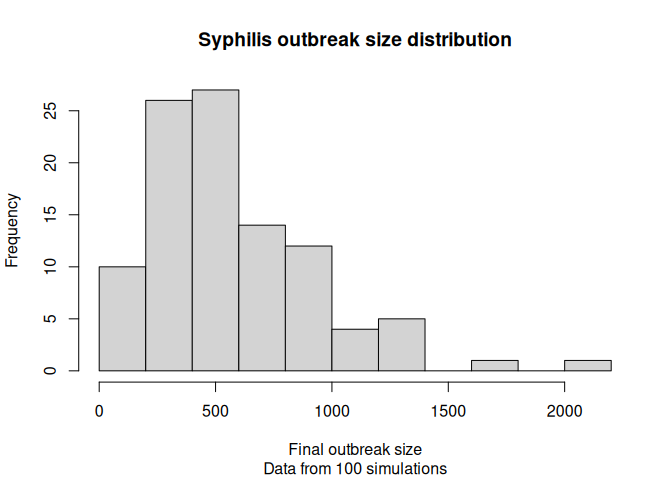
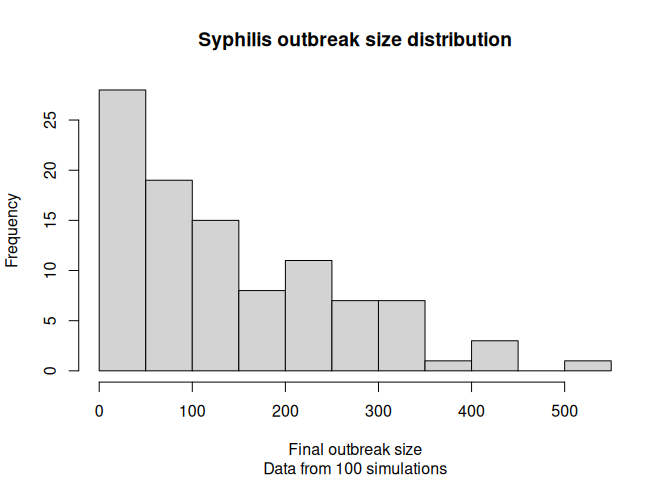
Added treatment during primary

diff --git a/syphilis.hpp b/syphilis.hpp
@@ -14,6 +14,11 @@ private:
     static void _update_i_secondary(Agent<> * agent, Model<> * model);
     static void _update_i_latent(Agent<> * agent, Model<> * model);
     static void _update_i_tertiary(Agent<> * agent, Model<> * model);
+    static void _update_i_under_treatment(Agent<> * agent, Model<> * model);
+
+    // Bool indicating agents that will get treatment
+    std::vector< bool > _will_get_treatment;
+    std::vector< int > _treatment_start_day;
 
 public:
 
@@ -26,7 +31,8 @@ public:
     // The tertiary stage happens years later, so we will not
     // include it in the model for simplicity
     // static const int I_TERTIARY = 5;
-    static const int RECOVERED = 5;
+    static const int I_LATENT_TERMINAL = 5;
+    static const int I_UNDER_TREATMENT = 6;
 
     /**
      * @brief Construct a new Model Syphilis object
@@ -36,6 +42,11 @@ public:
       * @param duration_primary Average duration of primary stage in days
       * @param duration_secondary Average duration of secondary stage in days
       * @param duration_latent Average duration of latent stage in days
+      * @param duration_of_treatment Fixed number of days for treatment.
+      * @param days_to_detect Average number of days to detect an infection (if 
+      * included) (geometrically distributed).
+      * @param proportion_will_get_treatment Proportion of infected individuals 
+      * that will receive treatment.
       * Note: The tertiary stage is not included in this model for simplicity,
       * as it occurs years after the initial infection and is less relevant 
       * for short-term epidemic modeling
@@ -45,8 +56,15 @@ public:
         epiworld_double incubation_period = 21.0,
         epiworld_double duration_primary = 52.2,
         epiworld_double duration_secondary = 105.0,
-        epiworld_double duration_latent = 365.0
+        epiworld_double duration_latent = 365.0,
+        epiworld_double duration_of_treatment = 21.0,
+        epiworld_double days_to_detect = 14.0,
+        epiworld_double proportion_will_get_treatment = 2.0/3.0
     );
+
+    void reset() override;
+
+    std::unique_ptr<Model<>> clone_ptr() override;
 
 };
 
@@ -67,22 +85,63 @@ public:
     }
 
 UPDATE_SYPHILIS(exposed, "Incubation Period", I_PRIMARY);
-UPDATE_SYPHILIS(i_primary, "Duration of Primary Stage", I_SECONDARY);
 UPDATE_SYPHILIS(i_secondary, "Duration of Secondary Stage", I_LATENT);
+UPDATE_SYPHILIS(i_latent, "Duration of Latent Stage", I_LATENT_TERMINAL);
 
-inline void ModelSyphilis::_update_i_latent(Agent<> * agent, Model<> * model) {
-    auto prob_transition = 1.0 / model->get_param("Duration of Latent Stage");
+inline void ModelSyphilis::_update_i_primary(Agent<> * agent, Model<> * model) {
+
+    auto * model_s = model_cast<ModelSyphilis,int>(model);
+
+    // Logic to move the agent to the treatment stage
+    if (model_s->_will_get_treatment[agent->get_id()]) 
+    {
+        double p_detect = 1.0 / model->par("Days to Detect Infection");
+        if (model->runif() < p_detect)
+        {
+            model_s->_treatment_start_day[agent->get_id()] = model->today();
+            agent->change_state(*model, I_UNDER_TREATMENT);
+            return;
+        }
+    }
+
+    // In case the agent is not detected, we proceed with the normal 
+    // progression of the disease
+    auto prob_transition = 1.0 / model->get_param("Duration of Primary Stage");
     if (model->runif() < prob_transition) {
-        agent->rm_virus(*model, RECOVERED);
+        agent->change_state(*model, I_SECONDARY);
+    }
+
+}
+
+inline void ModelSyphilis::_update_i_under_treatment(
+    Agent<> * agent,
+    Model<> * model
+) {
+
+    // Just to recover the model
+    auto* model_s = model_cast<ModelSyphilis,int>(model);
+
+    // Computing how many days have passed since the treatment started
+    int days_since_treatment = static_cast<int>(model->today()) -
+        model_s->_treatment_start_day[agent->get_id()];
+
+    // If the treatment duration has passed, we assume the agent is
+    // cured and goes back to susceptible
+    if (days_since_treatment >= model->get_param("Duration of Treatment")) {
+        agent->rm_virus(*model, SUSCEPTIBLE);
     }
 }
+
 
 inline ModelSyphilis::ModelSyphilis(
     epiworld_double prob_infection,
     epiworld_double incubation_period,
     epiworld_double duration_primary,
     epiworld_double duration_secondary,
-    epiworld_double duration_latent
+    epiworld_double duration_latent,
+    epiworld_double duration_of_treatment,
+    epiworld_double days_to_detect,
+    epiworld_double proportion_will_get_treatment
 ) {
     set_name("Syphilis Model");
 
@@ -92,7 +151,8 @@ inline ModelSyphilis::ModelSyphilis(
     add_state("I. Primary", _update_i_primary);
     add_state("I. Secondary", _update_i_secondary);
     add_state("I. Latent", _update_i_latent);
-    add_state("Recovered");
+    add_state("I. Latent Terminal");
+    add_state("I. Under Treatment", _update_i_under_treatment);
 
     // Creating parameters
     add_param(prob_infection, "Prob. Infection");
@@ -100,11 +160,14 @@ inline ModelSyphilis::ModelSyphilis(
     add_param(duration_primary, "Duration of Primary Stage");
     add_param(duration_secondary, "Duration of Secondary Stage");
     add_param(duration_latent, "Duration of Latent Stage");
+    add_param(duration_of_treatment, "Duration of Treatment");
+    add_param(days_to_detect, "Days to Detect Infection");
+    add_param(proportion_will_get_treatment, "Proportion Will Get Treatment");
 
     // Creating the virus
     Virus<> syphilis("Syphilis");
     syphilis.set_prob_infecting("Prob. Infection"); // Based on the model param
-    syphilis.set_state(EXPOSED, RECOVERED);
+    syphilis.set_state(EXPOSED, I_LATENT_TERMINAL);
 
     // The virus will be distributed randomly at the start of the
     // simulation, with 1 infected agent and the rest susceptible
@@ -112,4 +175,27 @@ inline ModelSyphilis::ModelSyphilis(
 
     add_virus(syphilis);
 
+}
+
+inline void ModelSyphilis::reset() {
+
+    Model<>::reset();
+
+    // Randomizing who will get treatment among those infected (this is done
+    // at the start of each simulation)
+    _will_get_treatment.assign(size(), false);
+    for (size_t i = 0; i < size(); ++i) {
+        if (runif() < get_param("Proportion Will Get Treatment"))
+            _will_get_treatment[i] = true;
+    }
+
+    if (_will_get_treatment.size() != size())
+        throw std::logic_error("Will get treatment vector size doesn't match population size.");
+
+    _treatment_start_day.assign(size(), -1);
+
+}
+
+inline std::unique_ptr<Model<>> ModelSyphilis::clone_ptr() {
+    return std::make_unique<ModelSyphilis>(*this);
 }

diff --git a/README.md b/README.md
@@ -41,11 +41,26 @@ file:
 
 ``` cpp
 #include "syphilis.hpp"
+#include <cstdlib>
 
-int main() {
+int main(int argc, char* argv[]) {
 
-    // Creating an empty model
-    ModelSyphilis model{};
+    // Parse parameters (with defaults)
+    float prob_infection     = argc > 1 ? std::atof(argv[1]) : 0.001;
+    float incubation_period  = argc > 2 ? std::atof(argv[2]) : 21.0;
+    float duration_primary   = argc > 3 ? std::atof(argv[3]) : 52.2;
+    float duration_secondary = argc > 4 ? std::atof(argv[4]) : 105.0;
+    float duration_latent    = argc > 5 ? std::atof(argv[5]) : 365.0;
+    int n_runs               = argc > 6 ? std::atoi(argv[6]) : 100;
+
+    // Creating the model with parameters
+    ModelSyphilis model{
+        prob_infection,
+        incubation_period,
+        duration_primary,
+        duration_secondary,
+        duration_latent
+    };
 
     // Adding agents from small-world network
     model.agents_smallworld(100'000, 10, 0.1);
@@ -57,11 +72,9 @@ int main() {
     auto saver = make_save_run(
         "results/%03lu-episimulation.csv",
         true // Total history
-        // We could save lots of other things,
-        // but are skipping for simplicity
     );
 
-    model.run_multiple(365 * 2, 100, 22, saver, true, true, 4);
+    model.run_multiple(365 * 2, n_runs, 22, saver, true, true, 4);
 
     // Showing what we have so far
     model.print();
@@ -96,8 +109,8 @@ should get an output like the following:
     Number of viruses   : 1
     Last run elapsed t  : 0.00s
     Total elapsed t     : 1.00s (101 runs)
-    Last run speed      : 1336.31 million agents x day / second
-    Average run speed   : 3695.95 million agents x day / second
+    Last run speed      : 1484.43 million agents x day / second
+    Average run speed   : 5075.65 million agents x day / second
     Rewiring            : off
     Last seed used      : 526637567
 
@@ -111,27 +124,32 @@ should get an output like the following:
      (none)
 
     Model parameters:
-     - Duration of Latent Stage    : 365.0000
-     - Duration of Primary Stage   : 52.2000
-     - Duration of Secondary Stage : 105.0000
-     - Incubation Period           : 21.0000
-     - Prob. Infection             : 0.0010
+     - Days to Detect Infection      : 14.0000
+     - Duration of Latent Stage      : 365.0000
+     - Duration of Primary Stage     : 52.2000
+     - Duration of Secondary Stage   : 105.0000
+     - Duration of Treatment         : 21.0000
+     - Incubation Period             : 21.0000
+     - Prob. Infection               : 0.0010
+     - Proportion Will Get Treatment : 0.6667
 
     Distribution of the population at time 730:
-      - (0) Susceptible  :  99999 -> 99638
-      - (1) Exposed      :      1 -> 57
-      - (2) I. Primary   :      0 -> 81
-      - (3) I. Secondary :      0 -> 88
-      - (4) I. Latent    :      0 -> 96
-      - (5) Recovered    :      0 -> 40
+      - (0) Susceptible        :  99999 -> 99906
+      - (1) Exposed            :      1 -> 10
+      - (2) I. Primary         :      0 -> 18
+      - (3) I. Secondary       :      0 -> 15
+      - (4) I. Latent          :      0 -> 19
+      - (5) I. Latent Terminal :      0 -> 18
+      - (6) I. Under Treatment :      0 -> 14
 
     Transition Probabilities:
-     - Susceptible   1.00  0.00     -     -     -     -
-     - Exposed          -  0.96  0.04     -     -     -
-     - I. Primary       -     -  0.98  0.02     -     -
-     - I. Secondary     -     -     -  0.99  0.01     -
-     - I. Latent        -     -     -     -  1.00  0.00
-     - Recovered        -     -     -     -     -  1.00
+     - Susceptible         1.00  0.00     -     -     -     -     -
+     - Exposed                -  0.95  0.05     -     -     -     -
+     - I. Primary             -     -  0.95  0.01     -     -  0.04
+     - I. Secondary           -     -     -  0.99  0.01     -     -
+     - I. Latent              -     -     -     -  1.00  0.00     -
+     - I. Latent Terminal     -     -     -     -     -  1.00     -
+     - I. Under Treatment  0.04     -     -     -     -     -  0.96
 
 ## Saved results
 
